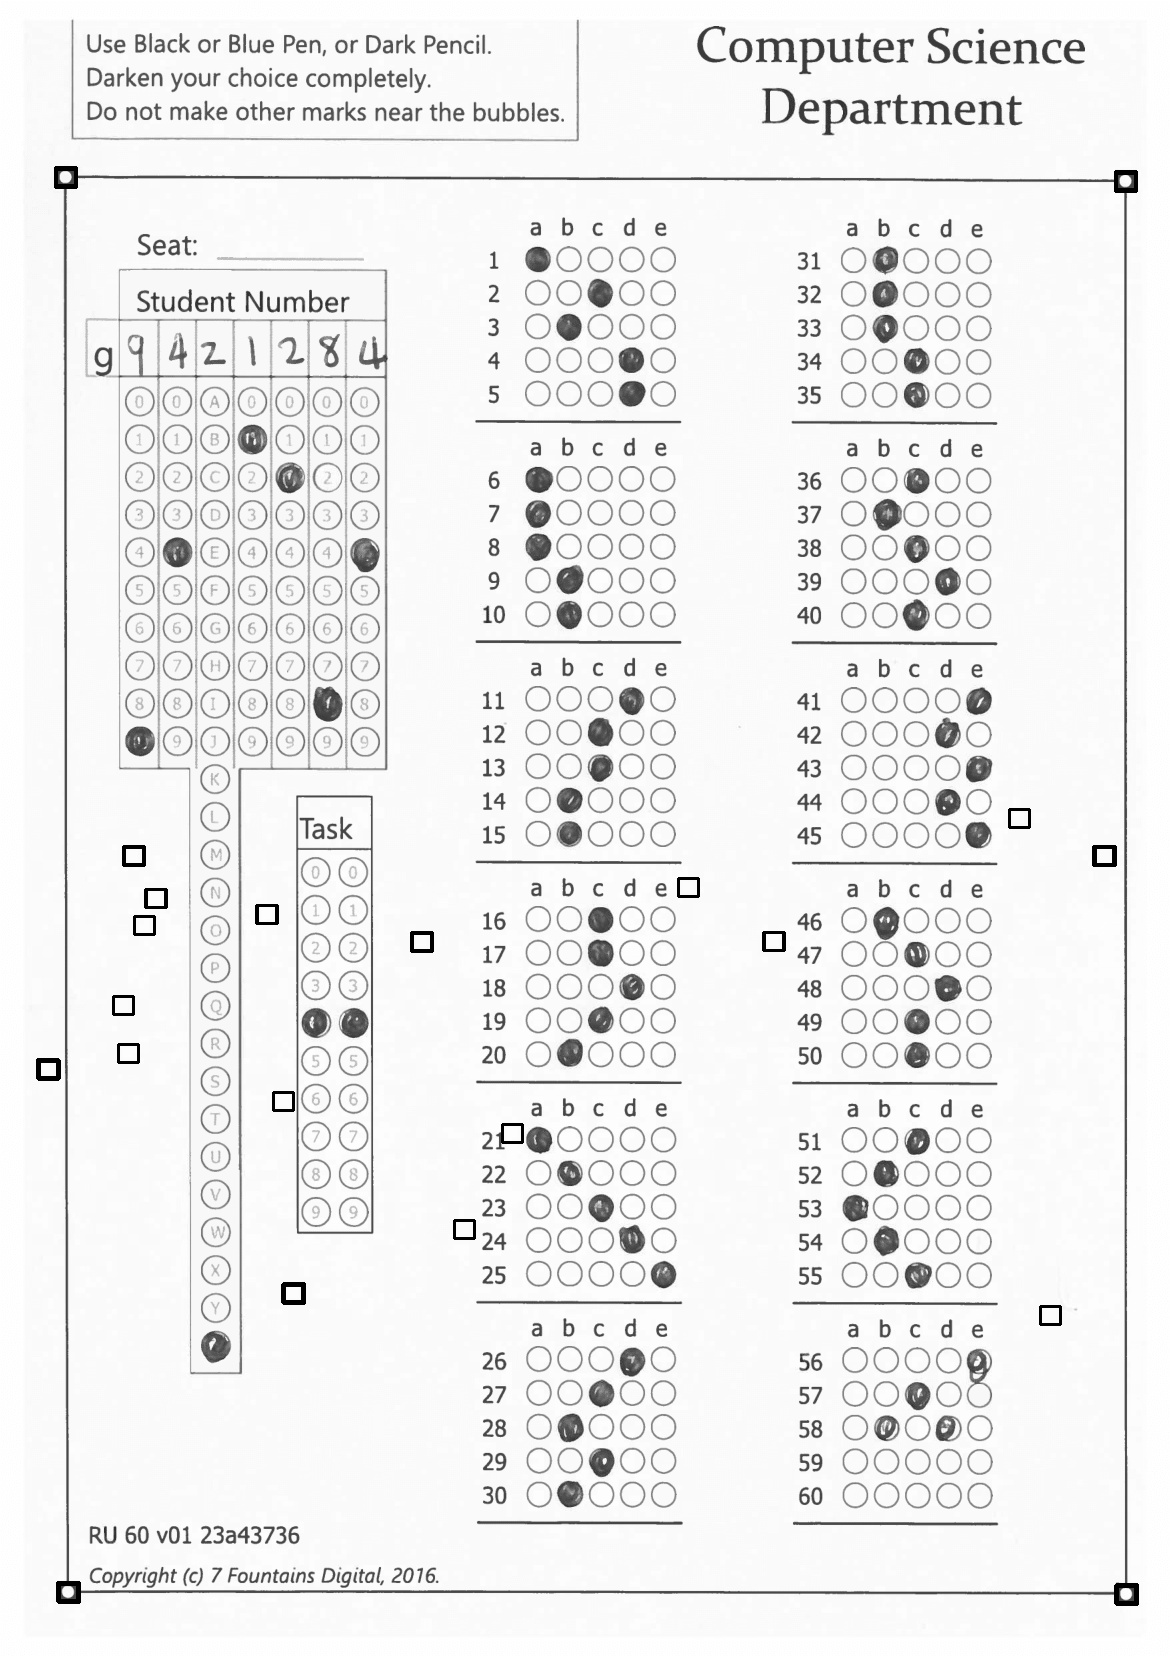
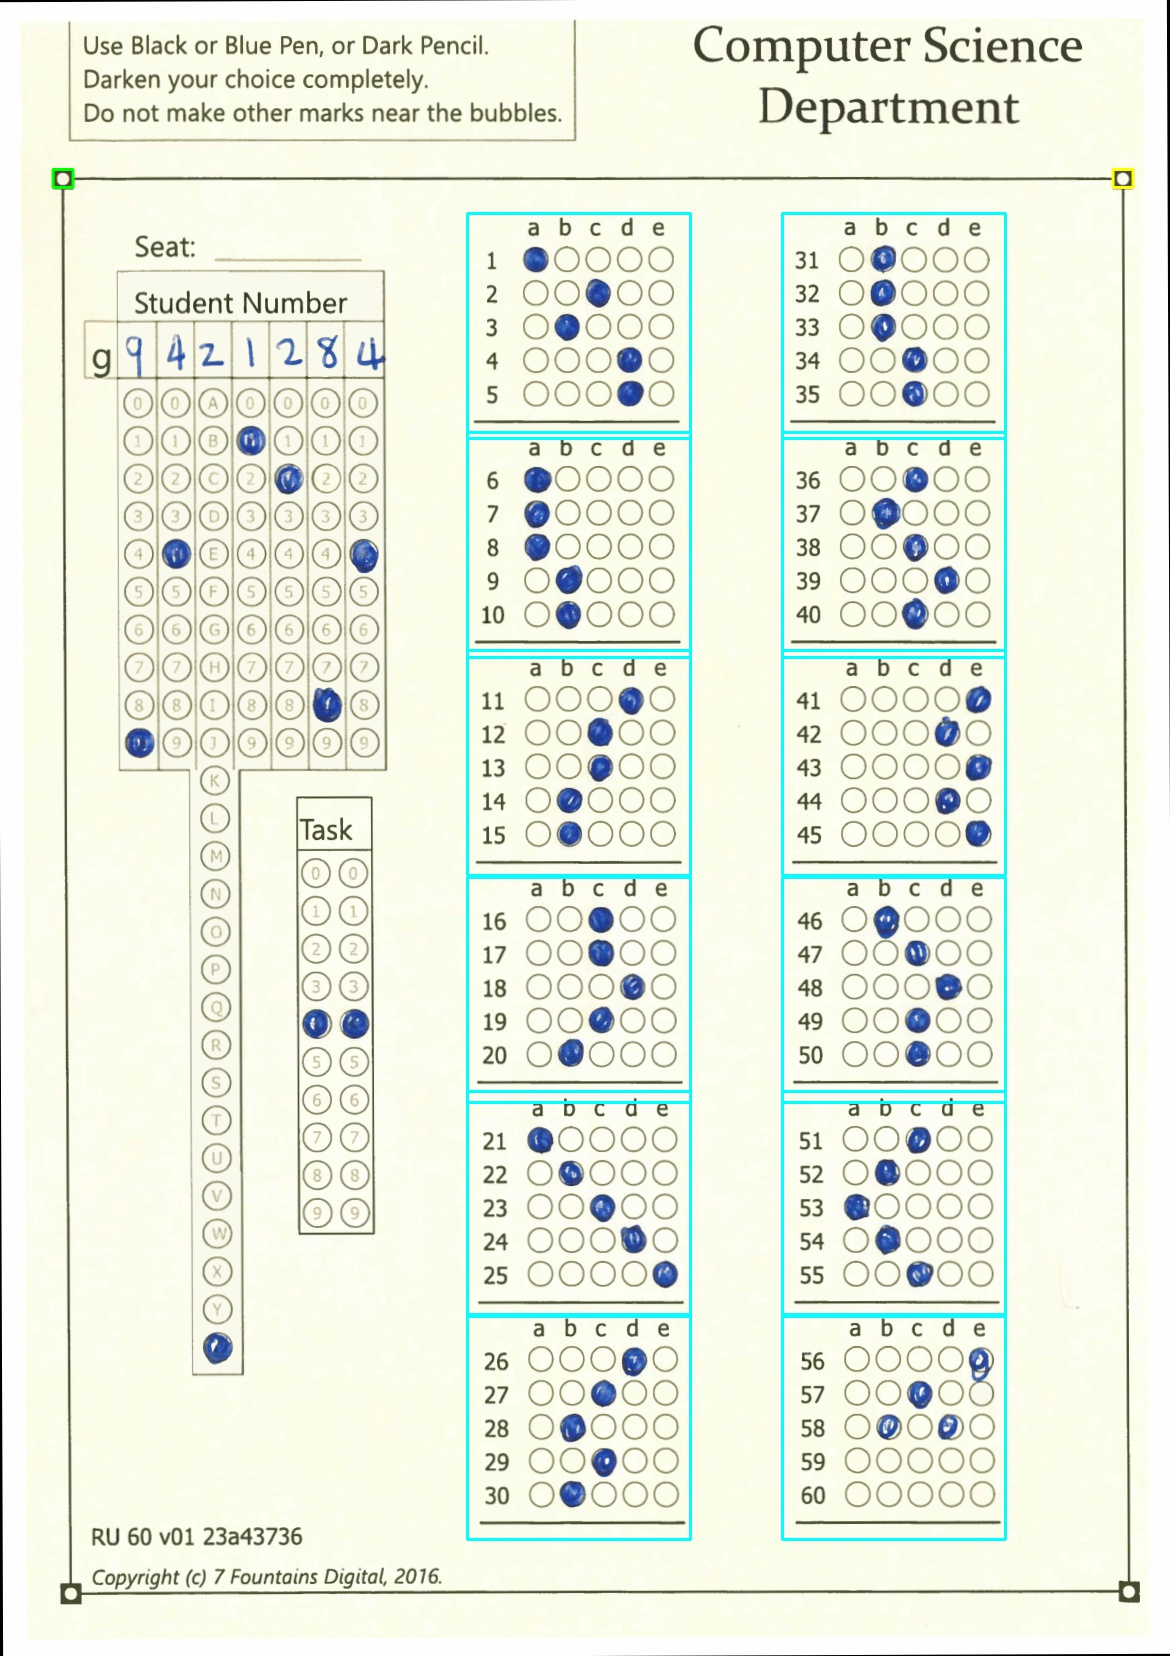
I can find a line!

diff --git a/5 - Sheet scoring/scoring.py b/5 - Sheet scoring/scoring.py
@@ -8,65 +8,81 @@ Created on Mon Sep  5 11:42:24 2016
 #import csv
 import numpy as np
 import cv2
+import func
+for i in xrange(3,4):
+    img = cv2.imread('Sheets/MCQ_600dpi_2016-{0}.png'.format(str(i).zfill(2)))#,cv2.CV_LOAD_IMAGE_GRAYSCALE)
 ###############################################################################
-def find_squares(img):
-    img = cv2.GaussianBlur(img, (5, 5), 0)
-    squares = []
-    for gray in cv2.split(img):
-        for thrs in xrange(0, 255, 26):
-            if thrs == 0:
-                bin = cv2.Canny(gray, 0, 50, apertureSize=5)
-                bin = cv2.dilate(bin, None)
-            else:
-                retval, bin = cv2.threshold(gray, thrs, 255, cv2.THRESH_BINARY)
-            contours, hierarchy = cv2.findContours(bin, cv2.RETR_LIST, cv2.CHAIN_APPROX_SIMPLE)
-            for cnt in contours:
-                cnt_len = cv2.arcLength(cnt, True)
-                cnt = cv2.approxPolyDP(cnt, 0.02*cnt_len, True)
-                if len(cnt) == 4 and cv2.contourArea(cnt) > 1000 and cv2.isContourConvex(cnt):
-                    cnt = cnt.reshape(-1, 2)
-                    max_cos = np.max([angle_cos( cnt[i], cnt[(i+1) % 4], cnt[(i+2) % 4] ) for i in xrange(4)])
-                    if max_cos < 0.1:
-                        squares.append(cnt)
-    return squares
-###############################################################################
-def angle_cos(p0, p1, p2):
-    d1, d2 = (p0-p1).astype('float'), (p2-p1).astype('float')
-    return abs( np.dot(d1, d2) / np.sqrt( np.dot(d1, d1)*np.dot(d2, d2) ) )
+    #rotate to correct orientation
+    sq = func.find_squares(img)
+    r = 4 #width to height ratio
+    mark = [(0,0),(0,0)]
+    for s in sq:
+        sw  = func.dist(s[0],s[1])
+        sh  = func.dist(s[1],s[2])
+        if (func.nearly_equal(sh/sw,r)) or (func.nearly_equal(sw/sh,r)):
+#            cv2.rectangle(img,tuple(s[0]),tuple(s[2]),(255,0,0),2)
+            mark = s
+            break
+    d,w,h = img.shape[::-1]
+    top = (0,0)
+    bot = (w,h)
+    if func.dist(mark[0],top) > func.dist(mark[0],bot):
+        M = cv2.getRotationMatrix2D((w/2,h/2),180,1)
+        img = cv2.warpAffine(img,M,(w,h))
+###############################################################################    
+    #find corners
+    template = cv2.imread('marker.png')
+    td, tw, th = template.shape[::-1]
 
-def nearly_equal(a,b,sig_fig=1):
-    return ( a==b or 
-             int(a*10**sig_fig) == int(b*10**sig_fig)
-           )
-###############################################################################           
-def dist(x,y):
-    return np.sqrt((x[0]-y[0])**2 + (x[1]-y[1])**2);
-###############################################################################
-for i in xrange(1,22):
-    img = cv2.imread('Sheets/MCQ_600dpi_2016-{0}.png'.format(str(i).zfill(2)),cv2.CV_LOAD_IMAGE_GRAYSCALE)
-    #sq = find_squares(img)
-    #r = 1.33 #width to height ratio
-    #for s in sq:
-    #    sw  = dist(s[0],s[1])
-    #    sh  = dist(s[1],s[2])
-    #    if (nearly_equal(sh/sw,r)) or (nearly_equal(sw/sh,r)):
-    #        cv2.rectangle(img,tuple(s[0]),tuple(s[2]),(255,0,0),2)
-    #        break
-
-    template = cv2.imread('marker.png',0)
-    w, h = template.shape[::-1] 
-    
-#    thi = cv2.adaptiveThreshold(img,255,cv2.ADAPTIVE_THRESH_GAUSSIAN_C,\
-#             cv2.THRESH_BINARY,11,2)
-#             
-#    tht = cv2.adaptiveThreshold(img,255,cv2.ADAPTIVE_THRESH_GAUSSIAN_C,\
-#             cv2.THRESH_BINARY,11,2)
-    
     res = cv2.matchTemplate(img,template,cv2.TM_CCOEFF_NORMED)
     threshold = 0.8
     loc = np.where( res >= threshold)
+    tl = (w/2,h/2)  #top left
+    tr = (w/2,h)    #top right
     for pt in zip(*loc[::-1]):
-        cv2.rectangle(img, pt, (pt[0] + w, pt[1] + h), (0,0,255), 2)
-    
+#        cv2.rectangle(img, pt, (pt[0] + tw, pt[1] + th), (0,0,255), 2)
+        if (pt[0]<tl[0]) and (pt[1]<tl[1]):
+            tl = pt
+            continue
+        if (pt[0]>tr[0]) and (pt[1]<tr[1]):
+            tr = pt
+#    cv2.rectangle(img, tl, (tl[0] + tw, tl[1] + th), (0,255,0), 2)
+#    cv2.rectangle(img, tr, (tr[0] + tw, tr[1] + th), (0,255,255), 2)
+###############################################################################   
+# grey and threshold image
+    img = cv2.cvtColor(img, cv2.COLOR_BGR2GRAY)
+    img = cv2.adaptiveThreshold(~img,255,cv2.ADAPTIVE_THRESH_GAUSSIAN_C,\
+            cv2.THRESH_BINARY,15,-2)
+###############################################################################
+# fine rotation for alignment    
+    ttr = (tr[0],tl[1])     #true top right
+    a = func.dist(ttr,tr)
+    b = func.dist(tl,ttr)
+    theta = ((np.arctan(a/b))/np.pi)*180
+    M = cv2.getRotationMatrix2D((w/2,h/2),theta,1)
+    img = cv2.warpAffine(img,M,(w,h))
+###############################################################################
+# scale image to perfect width and height
+    if(b != 1061):
+        scale = 1060/b
+        img = cv2.resize(img,None,fx=scale, fy=scale, interpolation = cv2.INTER_CUBIC)
+    else:
+        img = img
+###############################################################################
+#find answer blocks
+    ansblock = [[412,727], [46, 265, 483, 710, 924, 1147]]
+    bw  = 233
+    bh  = 225
+    for x in ansblock[0]:
+        for y in ansblock[1]:
+            crop_img = img[tl[1]+y:tl[1] + y + bh,tl[0]+x:tl[0] + x + bw]
+            horizontalsize = 180;
+            horizontalStructure = cv2.getStructuringElement(cv2.MORPH_RECT, (horizontalsize,2))
+            er = cv2.erode(crop_img,horizontalStructure,iterations = 1)
+            di = cv2.dilate(er,horizontalStructure,iterations = 1)
+            cv2.imwrite("answer{0}{1}.png".format(x,y),di)
+            
+        
+###############################################################################
+# write image
     cv2.imwrite('Score/score{0}.jpg'.format(str(i).zfill(2)),img)
-    

diff --git a/5 - Sheet scoring/func.py b/5 - Sheet scoring/func.py
@@ -1,0 +1,42 @@
+# -*- coding: utf-8 -*-
+"""
+Created on Wed Sep  7 12:28:16 2016
+
+@author: caramelkoala
+"""
+import cv2
+import numpy as np
+###############################################################################
+def find_squares(img):
+    img = cv2.GaussianBlur(img, (5, 5), 0)
+    squares = []
+    for gray in cv2.split(img):
+        for thrs in xrange(0, 255, 26):
+            if thrs == 0:
+                bin = cv2.Canny(gray, 0, 50, apertureSize=5)
+                bin = cv2.dilate(bin, None)
+            else:
+                retval, bin = cv2.threshold(gray, thrs, 255, cv2.THRESH_BINARY)
+            contours, hierarchy = cv2.findContours(bin, cv2.RETR_LIST, cv2.CHAIN_APPROX_SIMPLE)
+            for cnt in contours:
+                cnt_len = cv2.arcLength(cnt, True)
+                cnt = cv2.approxPolyDP(cnt, 0.02*cnt_len, True)
+                if len(cnt) == 4 and cv2.contourArea(cnt) > 1000 and cv2.isContourConvex(cnt):
+                    cnt = cnt.reshape(-1, 2)
+                    max_cos = np.max([angle_cos( cnt[i], cnt[(i+1) % 4], cnt[(i+2) % 4] ) for i in xrange(4)])
+                    if max_cos < 0.1:
+                        squares.append(cnt)
+    return squares
+###############################################################################
+def angle_cos(p0, p1, p2):
+    d1, d2 = (p0-p1).astype('float'), (p2-p1).astype('float')
+    return abs( np.dot(d1, d2) / np.sqrt( np.dot(d1, d1)*np.dot(d2, d2) ) )
+
+def nearly_equal(a,b,sig_fig=1):
+    return ( a==b or 
+             int(a*10**sig_fig) == int(b*10**sig_fig)
+           )
+###############################################################################           
+def dist(x,y):
+    return np.sqrt((x[0]-y[0])**2 + (x[1]-y[1])**2);
+###############################################################################
